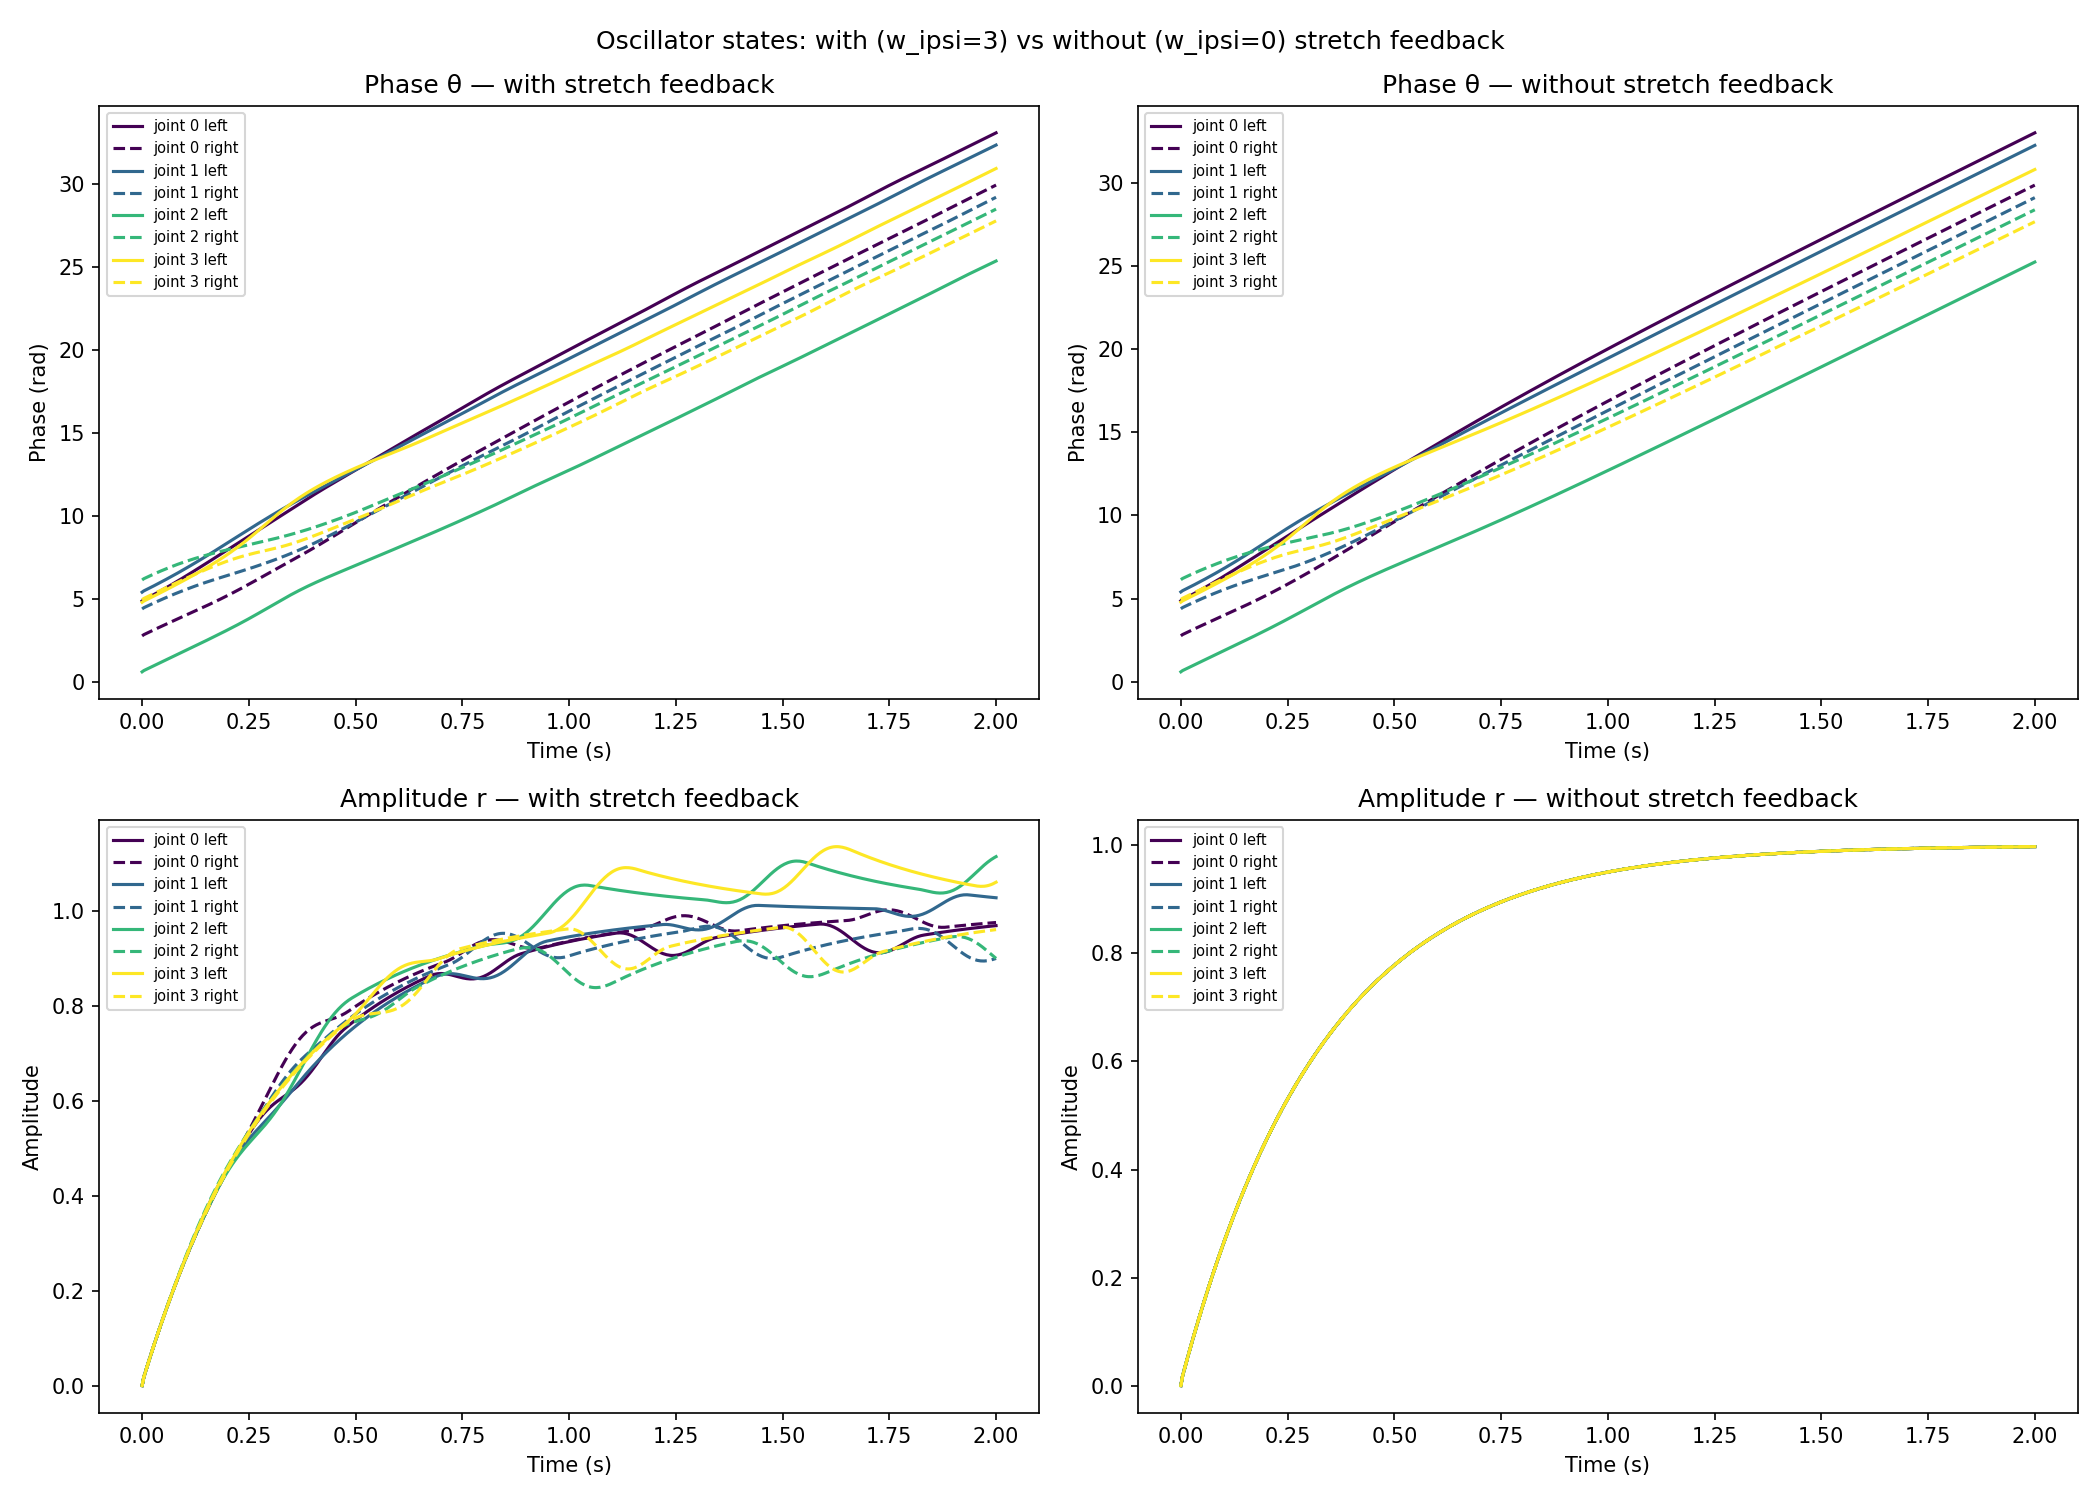
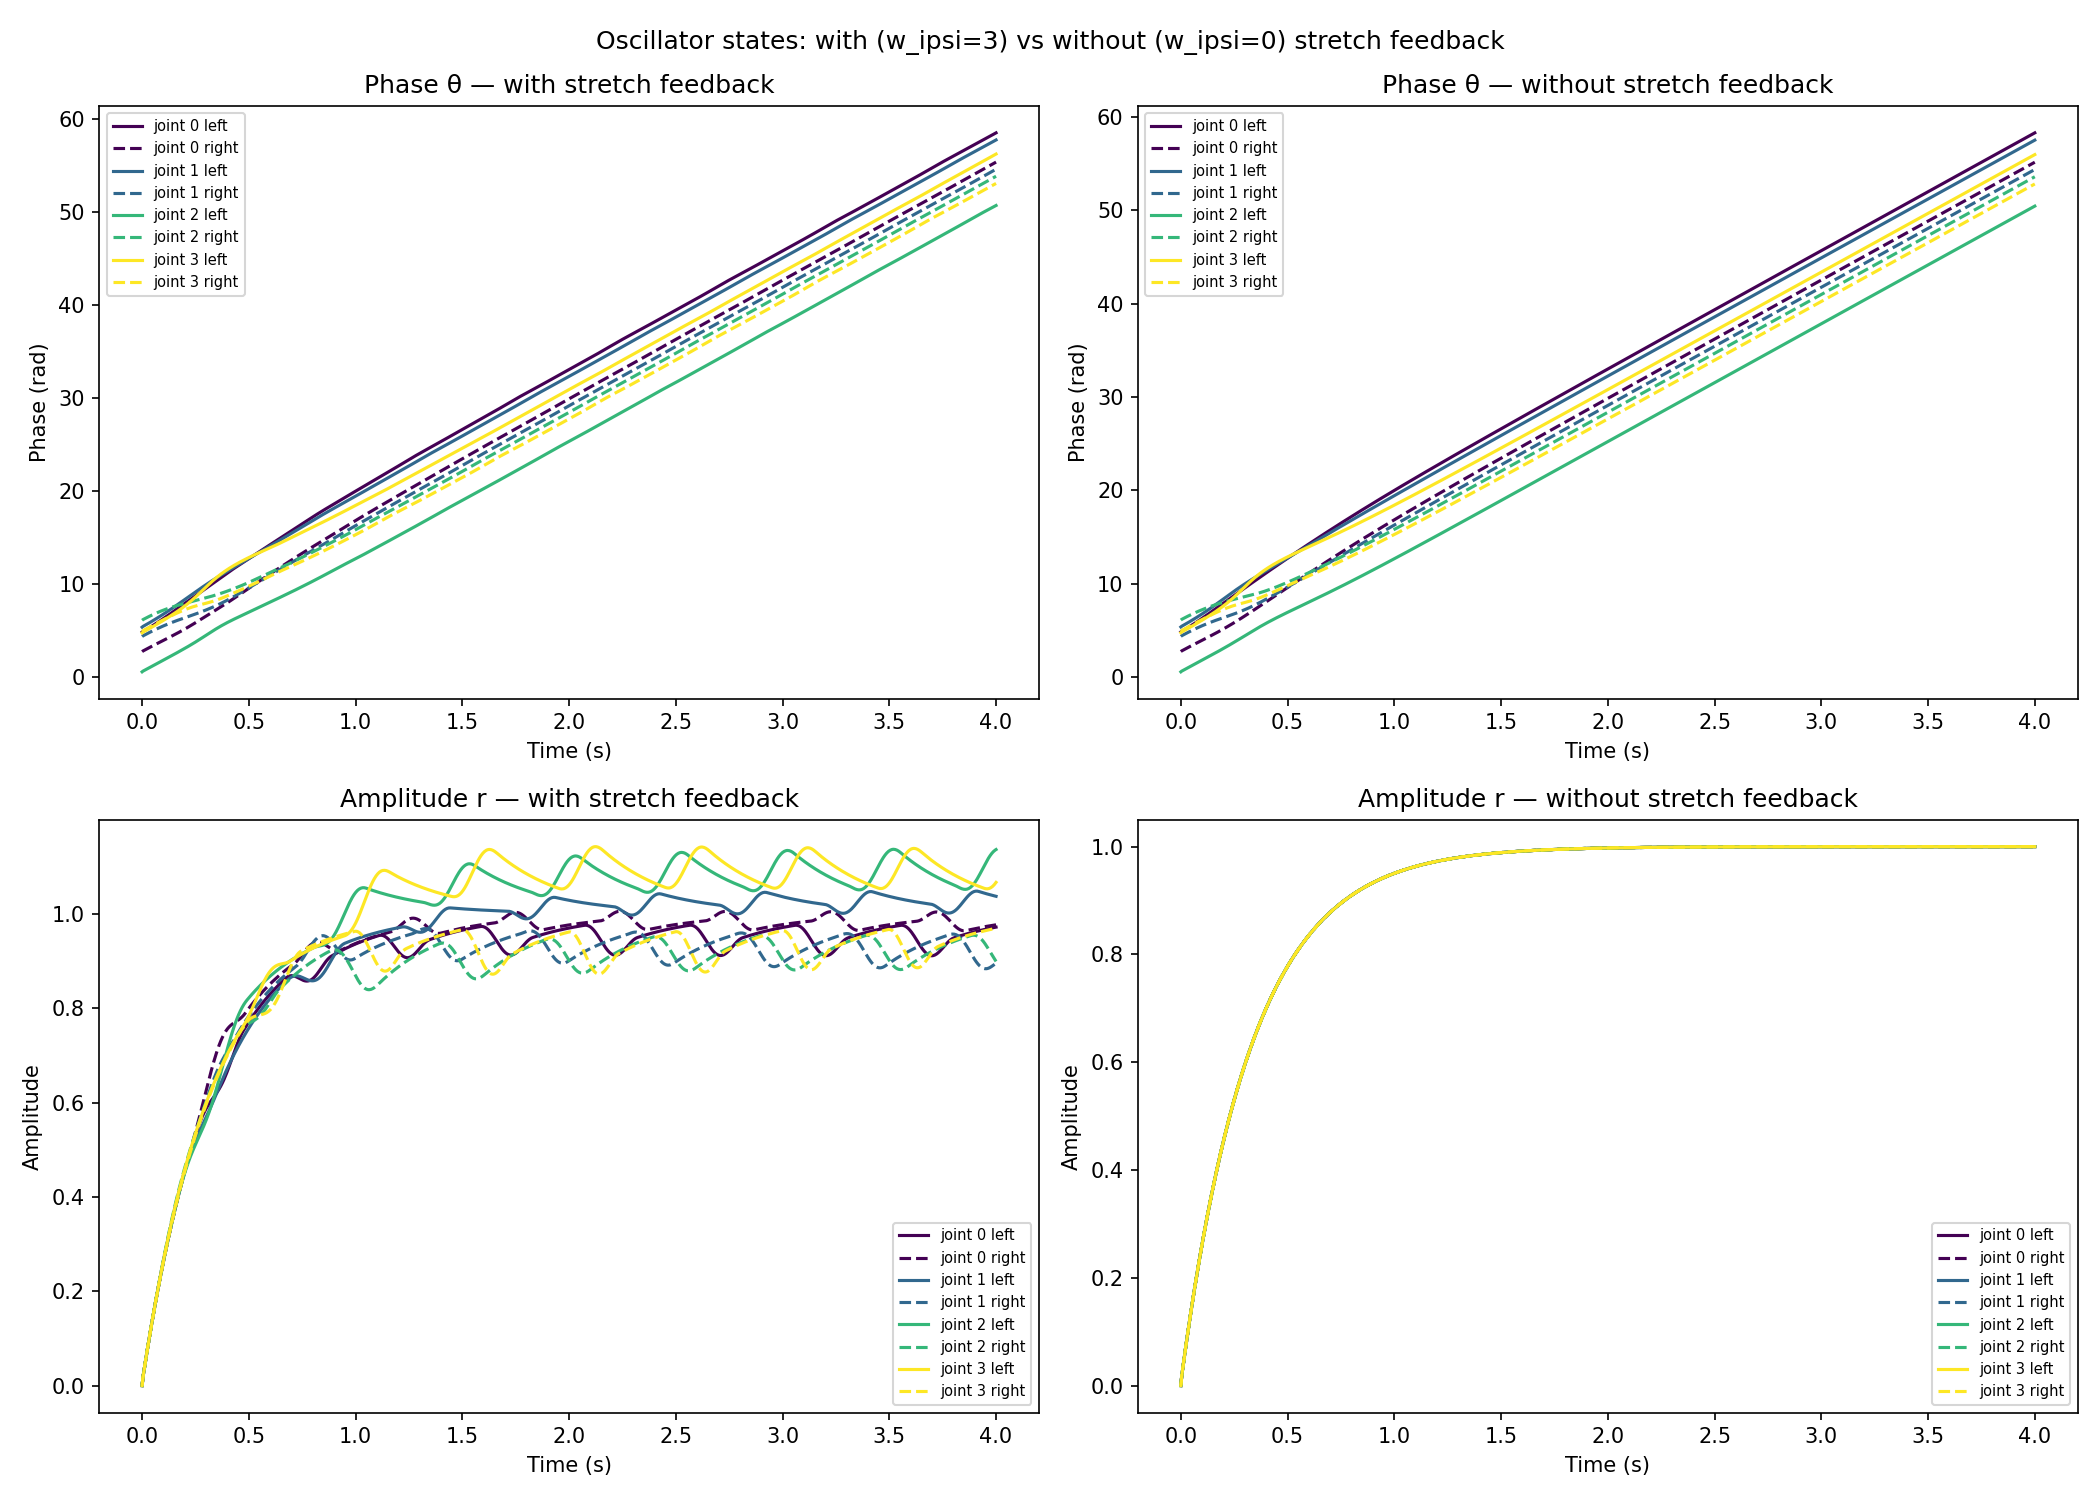
tous les plots/calculs pour 3.1

diff --git a/Project1/Python/exercise3_1.py b/Project1/Python/exercise3_1.py
@@ -22,94 +22,7 @@ from simulate import runsim
 BASE_PATH = 'logs/exercise3_1/'
 PLOT_PATH = 'results'
 
-'''
-def post_processing_with_sf(base_path):
-    """Post processing"""
-    # Load HDF5
-    sim_result = base_path + 'simulation_with_sf.hdf5'
-    with h5py.File(sim_result, "r") as f:
-        sim_times = f['times'][:]
-        state_data = f['FARMSLISTanimats']['0']['state'][:] #rajout pour les plots
-        sensor_data_links = f['FARMSLISTanimats']['0']['sensors']['links']['array'][:]
-        sensor_data_joints = f['FARMSLISTanimats']['0']['sensors']['joints']['array'][:]
-    sensor_data_links_positions = sensor_data_links[:, :, 7:10]
-    sensor_data_joints_positions = sensor_data_joints[:, :, 0]
-
-    # Load Controller
-    with open(base_path + "controller_with_sf.pkl", "rb") as f:
-        controller_data = pickle.load(f)
-    print("controleur data keys:", controller_data.keys())
-
-    # pour l'instant c'est guez de ouf
-
-    # θ et r directement depuis HDF5
-    theta_hist = sensor_data_links_positions   
-    r_hist     = sensor_data_joints_positions  
-
-    # Filtre 5s
-    mask = sim_times <= 5.0
-    t = sim_times[mask]
-
-    # Plot θ
-    plt.figure()
-    for i in range(16):
-        plt.plot(t, theta_hist[mask, i], label=f"θ_{i}")
-    plt.xlabel("Time [s]"); plt.ylabel("Phase θ")
-    plt.title("Time evolution of phases (θ) WITH SF"); plt.legend(); plt.grid()
-
-    # Plot r
-    plt.figure()
-    for i in range(16):
-        plt.plot(t, r_hist[mask, i], label=f"r_{i}")
-    plt.xlabel("Time [s]"); plt.ylabel("Amplitude r")
-    plt.title("Time evolution of amplitudes (r) WITH SF"); plt.legend(); plt.grid()
-
-    #########################################################################
-
-def post_processing_without_sf(base_path):
-    """Post processing"""
-    # Load HDF5
-    sim_result = base_path + 'simulation_without_sf.hdf5'
-    with h5py.File(sim_result, "r") as f:
-        sim_times = f['times'][:]
-        state_data = f['FARMSLISTanimats']['0']['state'][:] #rajout pour les plots
-        sensor_data_links = f['FARMSLISTanimats']['0']['sensors']['links']['array'][:]
-        sensor_data_joints = f['FARMSLISTanimats']['0']['sensors']['joints']['array'][:]
-    sensor_data_links_positions = sensor_data_links[:, :, 7:10]
-    sensor_data_joints_positions = sensor_data_joints[:, :, 0]
-
-    # Load Controller
-    with open(base_path + "controller_without_sf.pkl", "rb") as f:
-        controller_data = pickle.load(f)
-    print("controleur data keys:", controller_data.keys())
-
-    # pour l'instant c'est guez de ouf
-
-    # θ et r directement depuis HDF5
-    theta_hist = state_data[:, :16]   # colonnes 0-15
-    r_hist     = state_data[:, 16:32] # colonnes 16-31
-
-    # Filtre 5s
-    mask = sim_times <= 5.0
-    t = sim_times[mask]
-
-    # Plot θ
-    plt.figure()
-    for i in range(16):
-        plt.plot(t, theta_hist[mask, i], label=f"θ_{i}")
-    plt.xlabel("Time [s]"); plt.ylabel("Phase θ")
-    plt.title("Time evolution of phases (θ) NO SF"); plt.legend(); plt.grid()
-
-    # Plot r
-    plt.figure()
-    for i in range(16):
-        plt.plot(t, r_hist[mask, i], label=f"r_{i}")
-    plt.xlabel("Time [s]"); plt.ylabel("Amplitude r")
-    plt.title("Time evolution of amplitudes (r) NO SF"); plt.legend(); plt.grid()
-
-    #########################################################################
-
-'''
+######################## début code Estelle #################################################
 '''
 def plot_oscillator_states():
     """Plot oscillator states (theta and r) for w_ipsi=3 and w_ipsi=0"""
@@ -195,10 +108,17 @@ def plot_oscillator_states():
 
     with h5py.File(os.path.join(BASE_PATH, 'simulation_with_sf.hdf5'), 'r') as f:
         sensor_data_links_with = f['FARMSLISTanimats']['0']['sensors']['links']['array'][:]
+        joints_array_with = f['FARMSLISTanimats']['0']['sensors']['joints']['array'][:]
+        joints_names = f['FARMSLISTanimats']['0']['sensors']['joints']['names'][:]
+        #print("timestep 100, all joints, feature 0:", joints_array_with[100, :, 0])  # positions?
+        #print("timestep 100, all joints, feature 1:", joints_array_with[100, :, 1])  # velocities?
+        #print("timestep 100, all joints, feature 11:", joints_array_with[100, :, 11]) # torques?
+        #print("timestep 100, all joints, feature 14:", joints_array_with[100, :, 14])
     with h5py.File(os.path.join(BASE_PATH, 'simulation_without_sf.hdf5'), 'r') as f:
         sensor_data_links_without = f['FARMSLISTanimats']['0']['sensors']['links']['array'][:]
+        joints_array_without = f['FARMSLISTanimats']['0']['sensors']['joints']['array'][:]
 
-    print("links array shape:", sensor_data_links_with.shape)
+    #print("links array shape:", sensor_data_links_with.shape)
 
     state_with = controller_with['state']
     state_without = controller_without['state']
@@ -231,13 +151,33 @@ def plot_oscillator_states():
     motor_sum_without  = motor_left_without + motor_right_without
     motor_diff_without = motor_left_without - motor_right_without
 
+    ######## Forward speed ######
+    #links_positions_with  = sensor_data_links_with[:, :, :3]
+    links_positions_with  = sensor_data_links_with[:, :, 7:10]
+    links_velocities_with = sensor_data_links_with[:, :, 14:17]
+
+    #links_positions_without  = sensor_data_links_without[:, :, :3]
+    links_positions_without  = sensor_data_links_without[:, :, 7:10]
+    links_velocities_without = sensor_data_links_without[:, :, 14:17]
+
     # CoM trajectory
-    com_positions_with    = sensor_data_links_with.mean(axis=1)
-    com_positions_without = sensor_data_links_without.mean(axis=1)
+    #com_positions_with    = sensor_data_links_with.mean(axis=1)
+    #com_positions_without = sensor_data_links_without.mean(axis=1)
+    com_positions_with    = links_positions_with.mean(axis=1)
+    com_positions_without = links_positions_without.mean(axis=1)
     com_x_with    = com_positions_with[:, 0]
     com_y_with    = com_positions_with[:, 1]
     com_x_without = com_positions_without[:, 0]
     com_y_without = com_positions_without[:, 1]
+
+    # Joints
+    joint_angles_with    = joints_array_with[:, :8, 0]    # (n_iterations, 8)
+    joint_angles_without = joints_array_without[:, :8, 0]
+    
+    joints_velocities_with    = joints_array_with[:, :, 1]
+    joints_torques_with       = joints_array_with[:, :, 11]
+    joints_velocities_without = joints_array_without[:, :, 1]
+    joints_torques_without    = joints_array_without[:, :, 11]
 
     # Only plot first 5 seconds
     t_end = 5.0
@@ -351,7 +291,84 @@ def plot_oscillator_states():
 
     fig3.tight_layout()
     fig3.savefig(os.path.join(PLOT_PATH, 'com_trajectory.png'), dpi=150)
+    #plt.show()
+
+    # ---- Figure 4: CoM trajectory ----
+
+    joints_to_plot = list(range(8))  # subset for clarity
+    colors = plt.cm.viridis(np.linspace(0, 1, len(joints_to_plot)))
+
+    fig4, axes4 = plt.subplots(1, 2, figsize=(14, 5))
+    fig4.suptitle('Body joint angles: with (w_ipsi=3) vs without (w_ipsi=0) stretch feedback')
+
+    for idx, j in enumerate(joints_to_plot):
+        axes4[0].plot(t, joint_angles_with[mask, j], color=colors[idx], label=f'joint {j}')
+    axes4[0].set_title('Joint angles — with stretch feedback')
+    axes4[0].set_xlabel('Time (s)')
+    axes4[0].set_ylabel('Angle (rad)')
+    axes4[0].legend(fontsize=7)
+    axes4[0].grid()
+
+    for idx, j in enumerate(joints_to_plot):
+        axes4[1].plot(t, joint_angles_without[mask, j], color=colors[idx], label=f'joint {j}')
+    axes4[1].set_title('Joint angles — without stretch feedback')
+    axes4[1].set_xlabel('Time (s)')
+    axes4[1].set_ylabel('Angle (rad)')
+    axes4[1].legend(fontsize=7)
+    axes4[1].grid()
+
+    fig4.tight_layout()
+    fig4.savefig(os.path.join(PLOT_PATH, 'joint_angles.png'), dpi=150)
     plt.show()
+
+    ########### Neural metrics #########
+
+    # skip transient (first 2s)
+    transient = int(2.0 / timestep)
+    t_steady = time[transient:]
+
+    # compute metrics
+    peak_freq_with, _, peak_amp_with = compute_frequency_amplitude_fft(
+        t_steady, motor_diff_with[transient:, :])
+    peak_freq_without, _, peak_amp_without = compute_frequency_amplitude_fft(
+        t_steady, motor_diff_without[transient:, :])
+
+    neural_freq_with    = np.mean(peak_freq_with)
+    neural_amp_with    = np.mean(peak_amp_with)
+    neural_freq_without = np.mean(peak_freq_without)
+    neural_amp_without = np.mean(peak_amp_without)
+
+    print("=== Neural Metrics ===")
+    print(f"With stretch feedback:    neural_freq={neural_freq_with:.3f} Hz,  neural_amp={ neural_amp_with:.3f}")
+    print(f"Without stretch feedback: neural_freq={ neural_freq_without:.3f} Hz, neural_amp={ neural_amp_without:.3f}")
+
+    ######## Forward speed ############
+    
+    forward_speed_with,  _ = compute_mechanical_speed(links_positions_with,  links_velocities_with)
+    forward_speed_without, _ = compute_mechanical_speed(links_positions_without, links_velocities_without)
+    print("=== Other Metrics ===")
+    print("Forward speed")
+    print(f"With stretch feedback:    forward_speed={forward_speed_with:.3f}")
+    print(f"Without stretch feedback: forward_speed={forward_speed_without:.3f}")
+
+    ######### CoT ############
+    
+    _, CoT_with = compute_mechanical_energy_and_cot(t_steady, links_positions_with[transient:],
+        joints_torques_with[transient:],
+        joints_velocities_with[transient:]
+    )
+    _, CoT_without = compute_mechanical_energy_and_cot(t_steady, links_positions_without[transient:],
+        joints_torques_without[transient:],
+        joints_velocities_without[transient:]
+    )
+    print("CoT")
+    print(f"With stretch feedback:    CoT={CoT_with[-1]:.3f}") # [-1]  (last value) since the energy function is computing a cumulative integration over time — the last value represents the total energy divided by total distance
+    print(f"Without stretch feedback: CoT={CoT_without[-1]:.3f}")
+    
+
+    
+######################## fin code Estelle #################################################
+
 
 def main(**kwargs):
     """Run exercise 3.1 simulations with and without sensory feedback."""
@@ -386,7 +403,6 @@ def main(**kwargs):
 
     #pylog.warning("TODO: 3.1 Compare the performance")
 
-    tic1 = time.time()
     runsim(
         controller=controller,
         base_path=BASE_PATH,
@@ -394,15 +410,12 @@ def main(**kwargs):
         recording='animation3_1_with_sf.mp4',
         hdf5_name='simulation_with_sf.hdf5',
         controller_name='controller_with_sf.pkl',
-        runtime_n_iterations=501,
-        runtime_buffer_size=501,
+        runtime_n_iterations=1001,
+        runtime_buffer_size=1001,
         fast=fast,
         headless=headless,
     )
-    #post_processing_with_sf(BASE_PATH)
-    #pylog.info('Total simulation time: %s [s]', time.time() - tic1)
 
-    tic2 = time.time()
     runsim(
         controller=controller,
         base_path=BASE_PATH,
@@ -410,13 +423,12 @@ def main(**kwargs):
         recording='animation3_1_without_sf.mp4',
         hdf5_name='simulation_without_sf.hdf5',
         controller_name='controller_without_sf.pkl',
-        runtime_n_iterations=501,
-        runtime_buffer_size=501,
+        runtime_n_iterations=1001,
+        runtime_buffer_size=1001,
         fast=fast,
         headless=headless,
     )
-    #post_processing_without_sf(BASE_PATH)
-    #pylog.info('Total simulation time: %s [s]', time.time() - tic2)
+  
     plot_oscillator_states()
 
 

diff --git a/Project1/Python/cmc_controllers/metrics.py b/Project1/Python/cmc_controllers/metrics.py
@@ -121,7 +121,7 @@ def get_phase_lag(
 
     # johanne code
     phase_lag = 2*np.pi*sig_freq*n_lag*sig_dt
-    pylog.warning("TODO: 1.2")
+    #pylog.warning("TODO: 1.2")
     return phase_lag
 
 
@@ -257,7 +257,7 @@ def compute_mechanical_speed(links_positions: np.ndarray,
         speed_forward[idx] = np.dot(v_com, direction_fwd)
         speed_lateral[idx] = np.dot(v_com, direction_left)
 
-        pylog.warning("TODO: 1.2 Compute the forward and lateral speed of CoM with")
+        #pylog.warning("TODO: 1.2 Compute the forward and lateral speed of CoM with")
         # projections on PCA direction
 
     return np.mean(speed_forward), np.mean(speed_lateral)
@@ -331,7 +331,7 @@ def compute_mechanical_energy_and_cot(times: np.ndarray,
     Compute the integration of traveled distance for the CoM of the robot (useful varibles: LINKS_MASSES, TOTAL_MASS)
     """
 
-    pylog.warning("TODO: 1.2 Compute energy and CoT")
+    #pylog.warning("TODO: 1.2 Compute energy and CoT")
     # johanne code
     Power = np.maximum(joints_torques * joints_velocities, 0) 
     energy = times * np.sum(Power)
